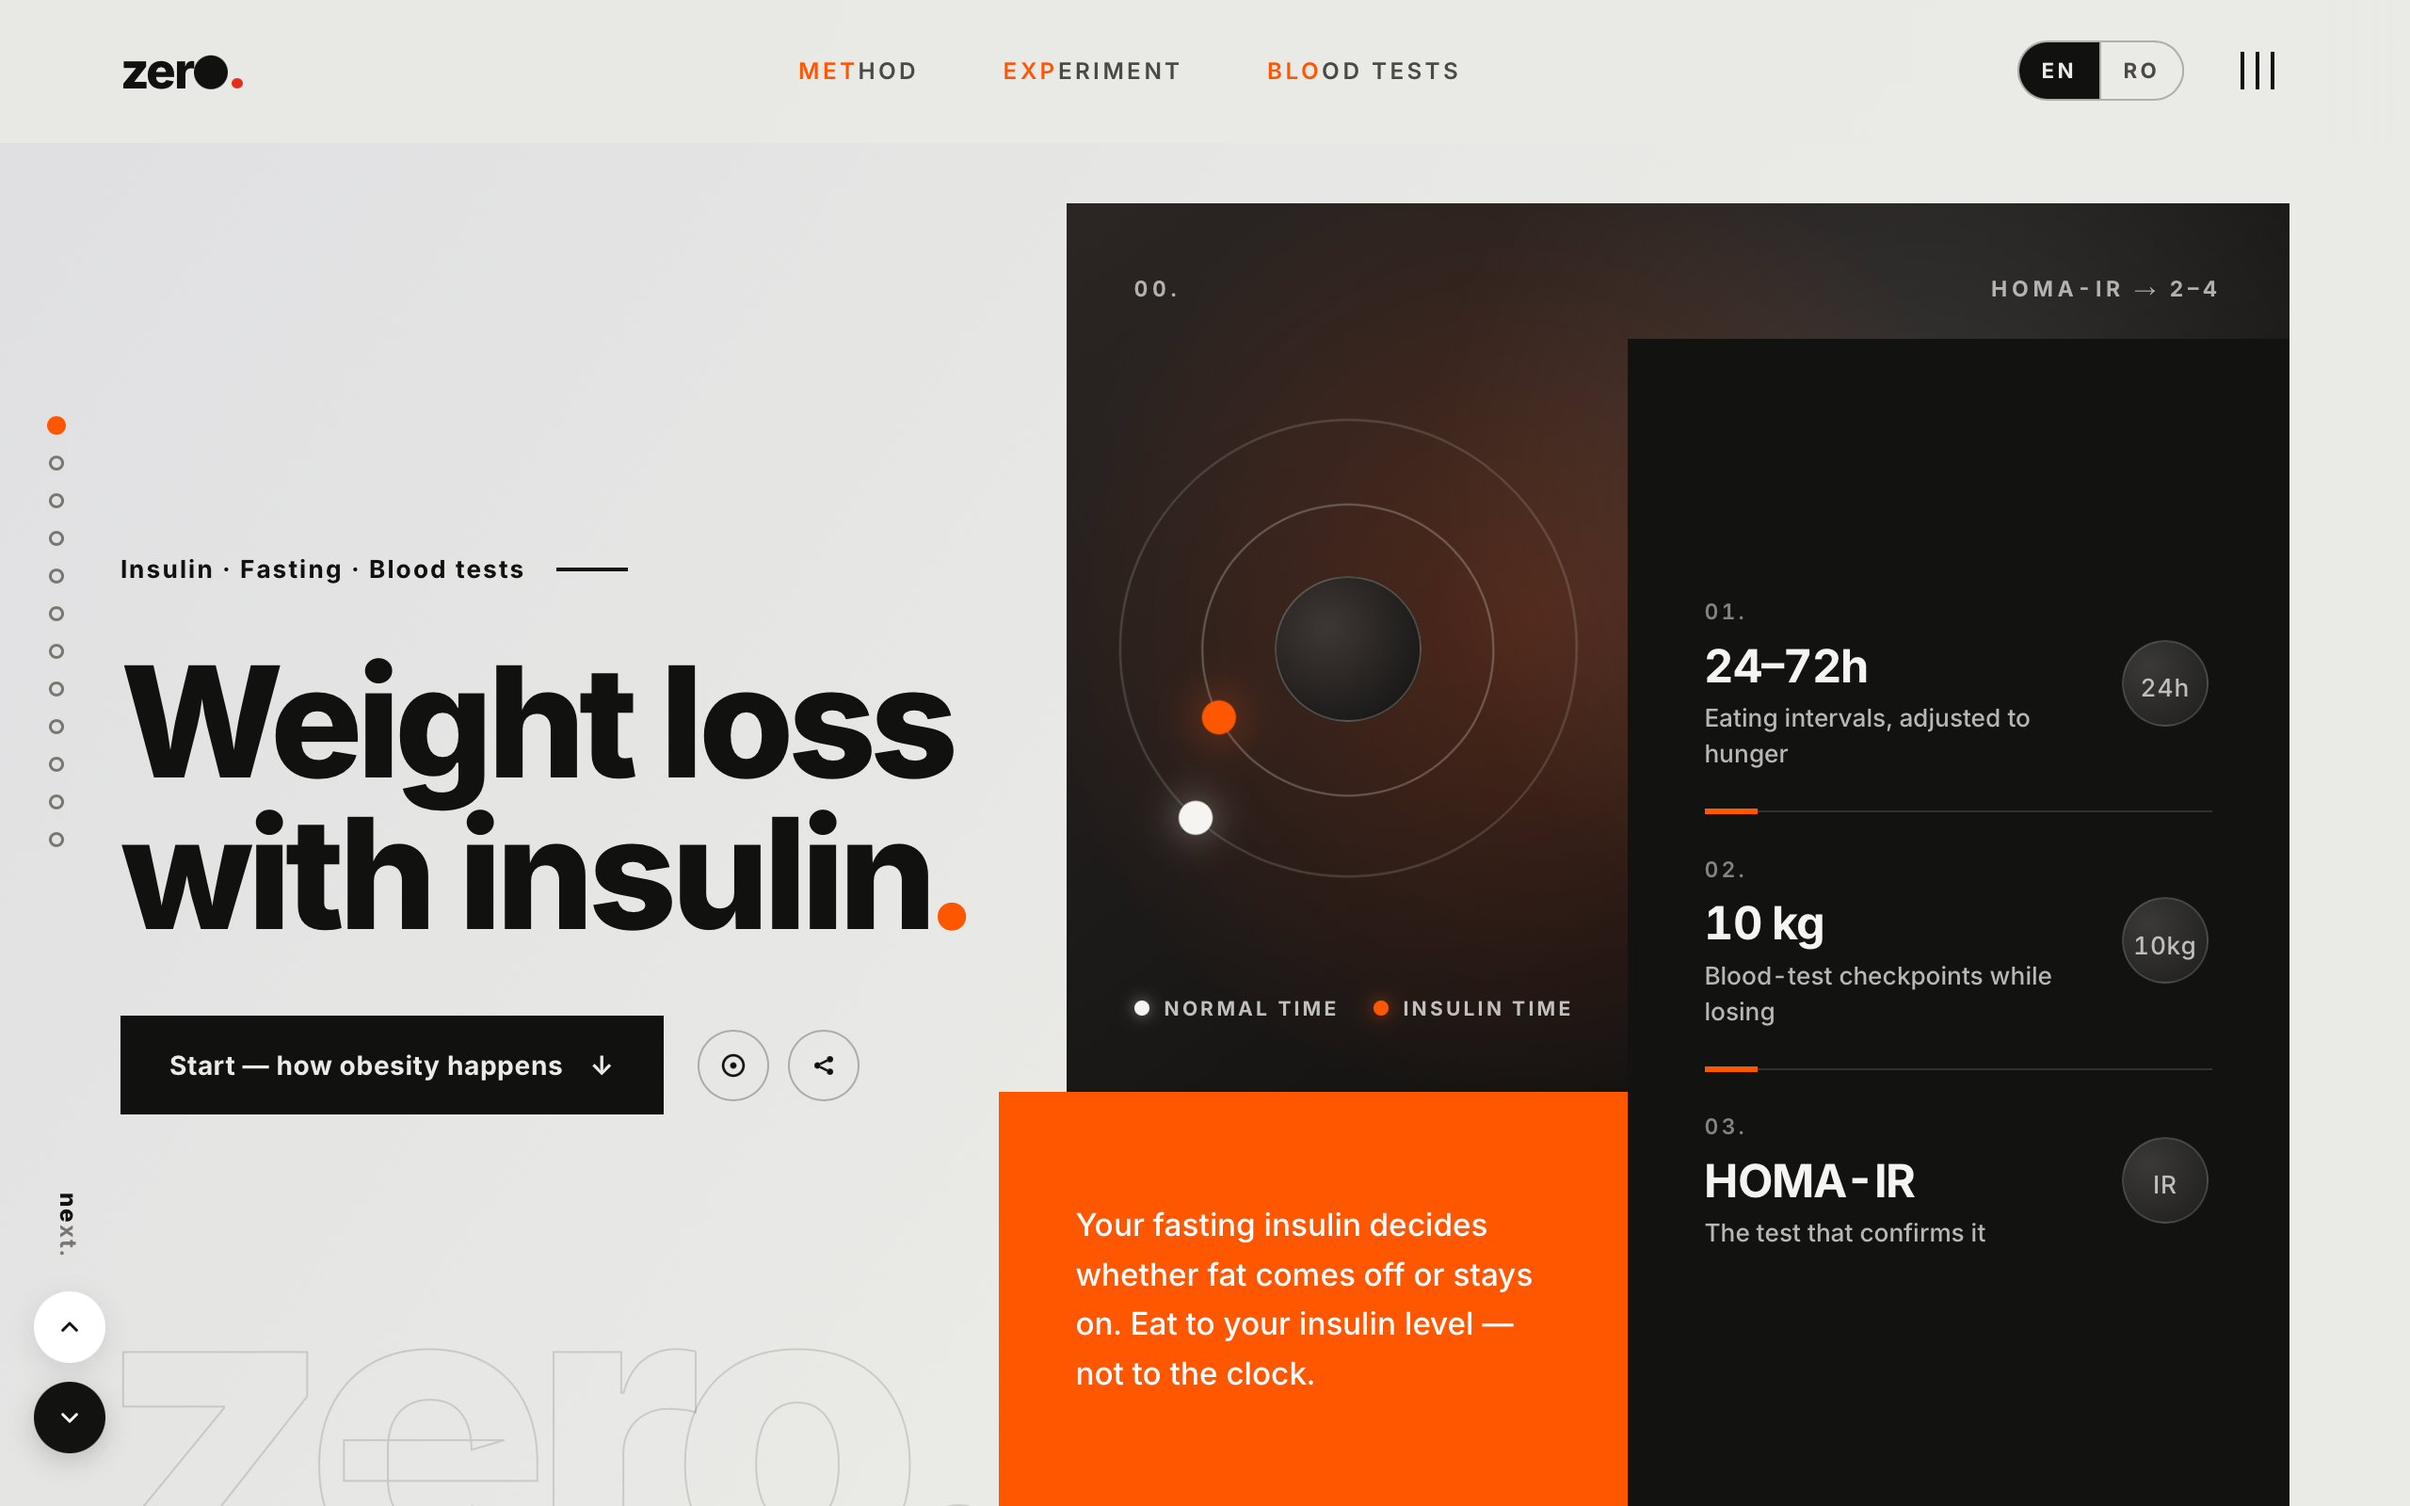
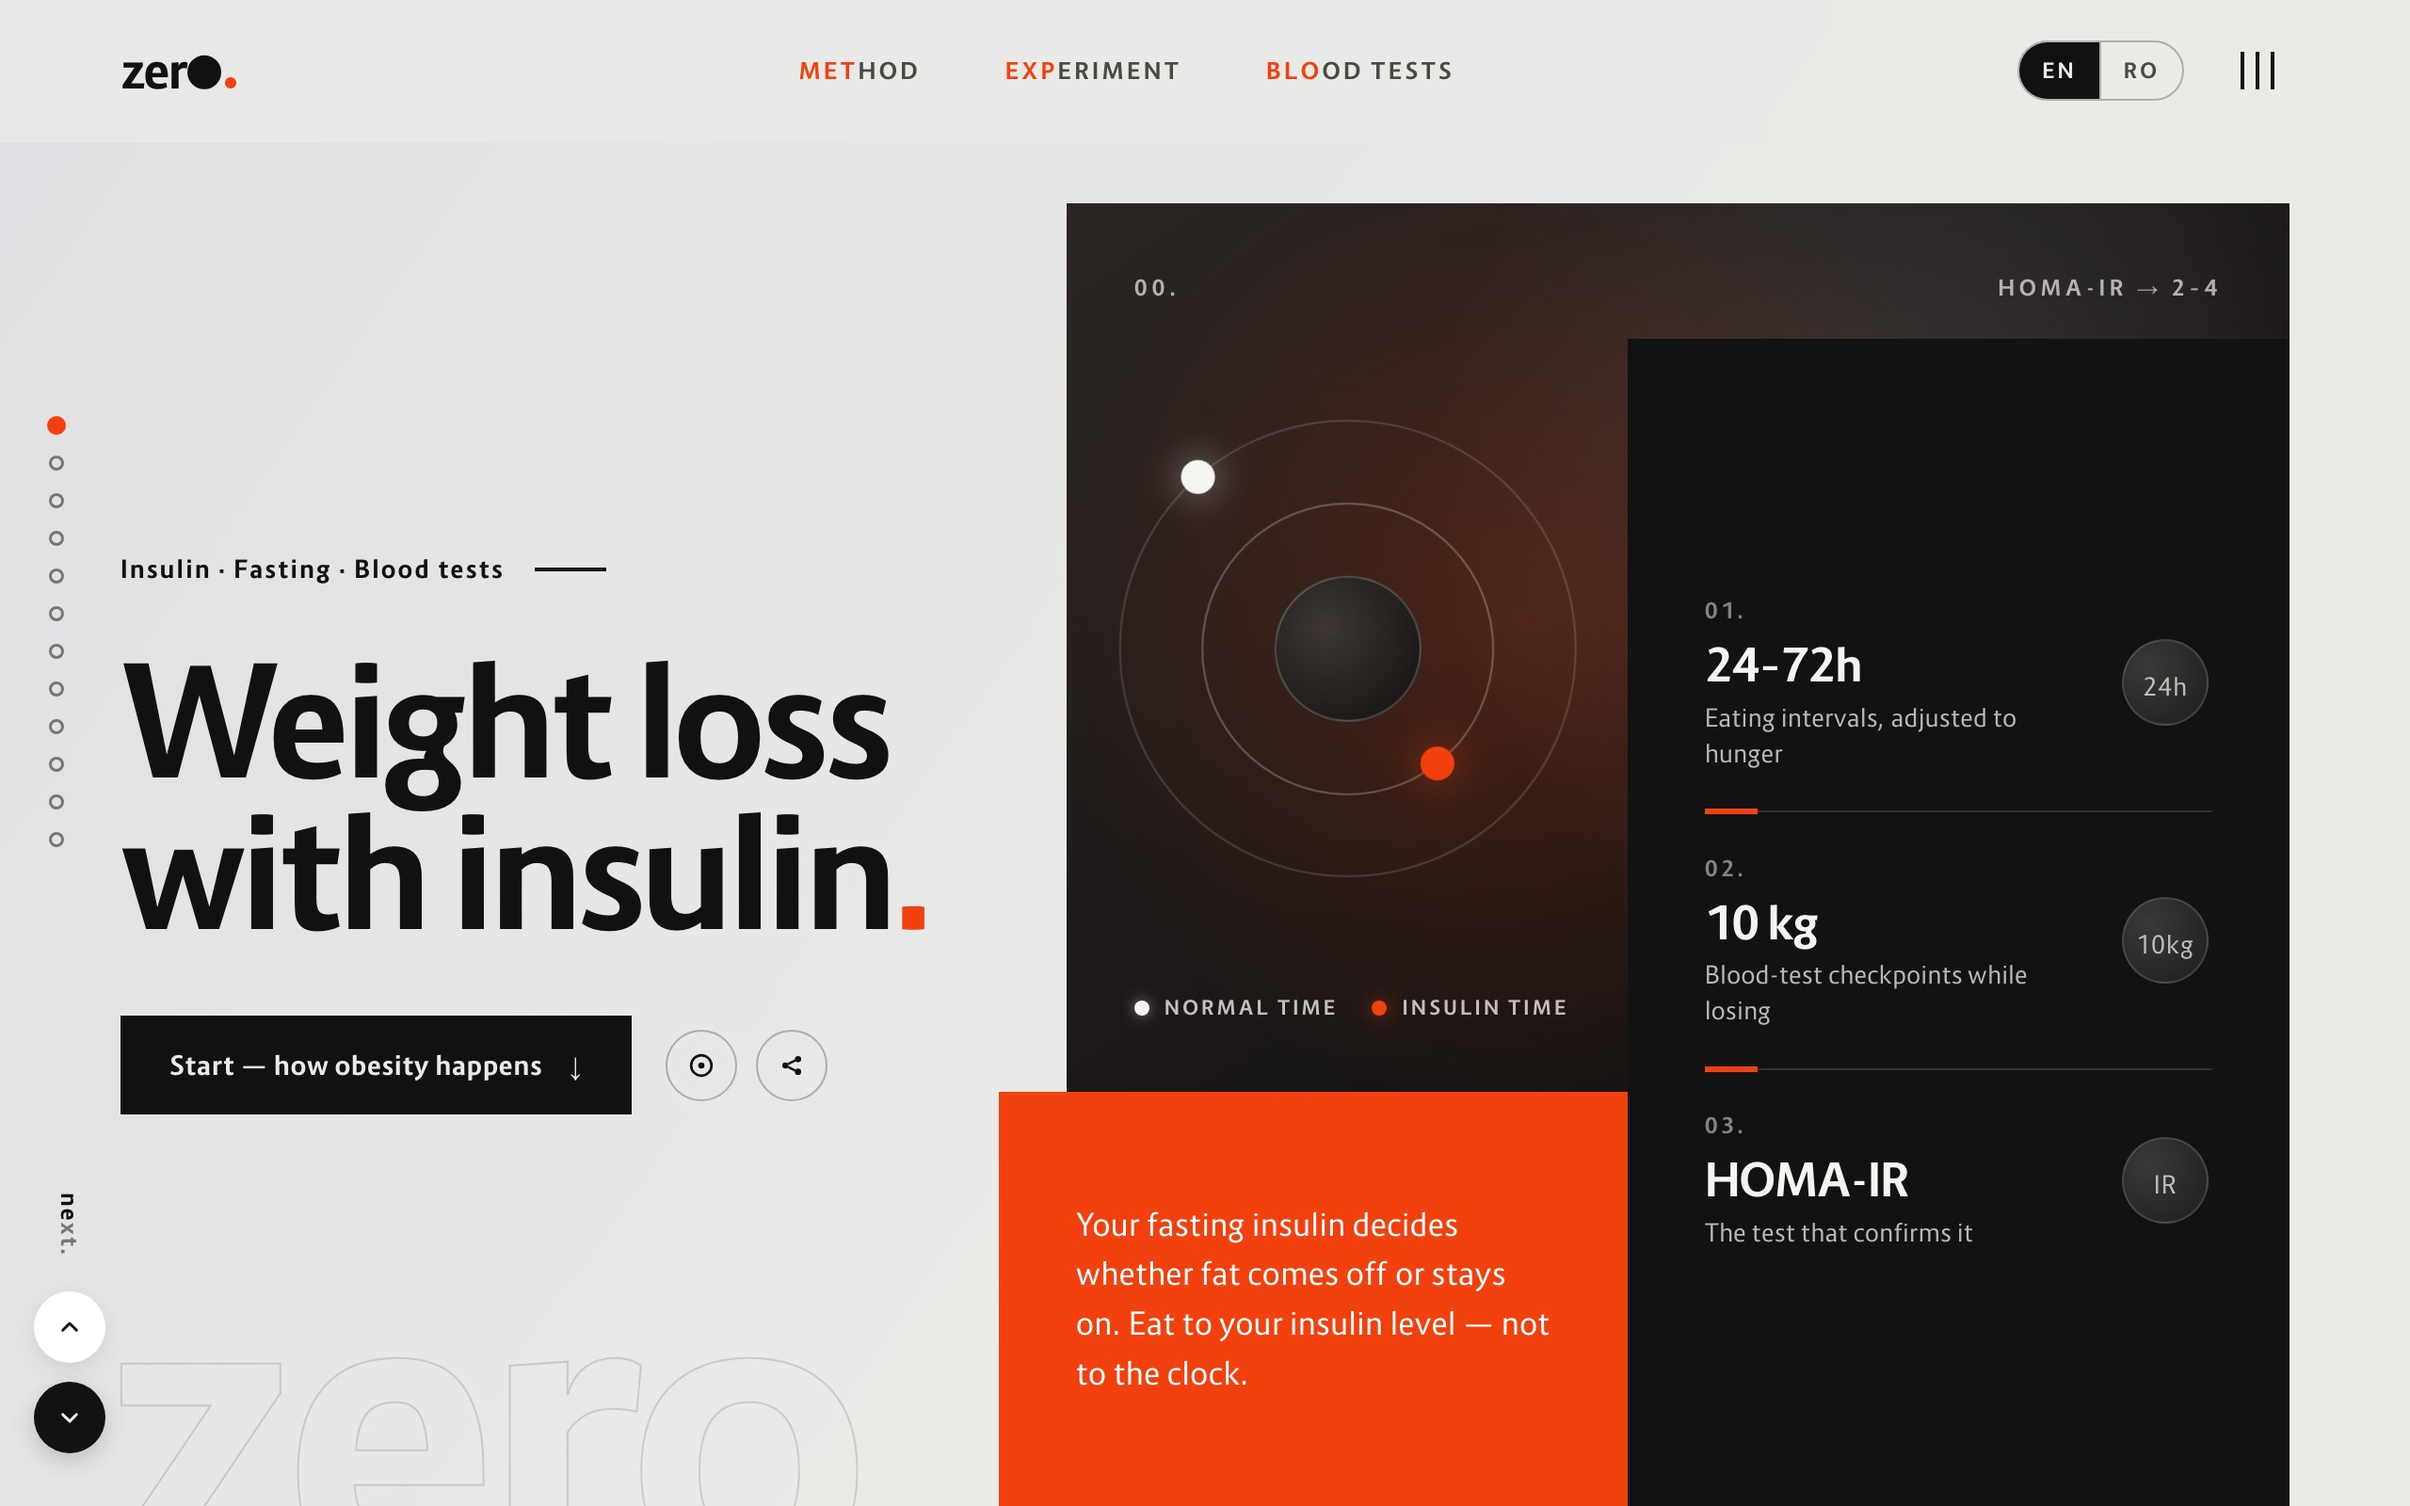
consolidate --accent color

diff --git a/static/style.css b/static/style.css
@@ -48,9 +48,8 @@
   --invert-ink:var(--ink);
   --invert-sub:var(--body);
 
-  /* Accent & brand dot — fixed in both themes */
-  --accent:#FF5500;
-  --logo-dot:#E62B1E;
+  /* Accent — fixed in both themes */
+  --accent:#F2400F;
   --accent-ink:#FFF8F4;
   --on-accent:#FFFFFF;
 
@@ -186,7 +185,7 @@ img,svg{display:block;max-width:100%}
   width:.22em;
   height:.22em;
   border-radius:50%;
-  background:var(--logo-dot);
+  background:var(--accent);
   margin-left:.08em;
 }
 .brand--foot{
@@ -573,7 +572,7 @@ img,svg{display:block;max-width:100%}
   position:relative;
   overflow:hidden;
   background:
-    radial-gradient(circle at 38% 42%, rgba(255,85,0,.22), transparent 52%),
+    radial-gradient(circle at 38% 42%, rgba(242,64,15,.22), transparent 52%),
     radial-gradient(circle at 70% 28%, rgba(255,255,255,.12), transparent 45%),
     linear-gradient(145deg, #2B2624 0%, #161413 60%, #0E0D0D 100%);
   color:#F5F4F1;
@@ -638,7 +637,7 @@ img,svg{display:block;max-width:100%}
   width:18px;height:18px;
   border-radius:50%;
   background:var(--accent);
-  box-shadow:0 0 24px rgba(255,85,0,.65);
+  box-shadow:0 0 24px rgba(242,64,15,.65);
 }
 .har-dot--white{
   background:#F5F4F1;
@@ -687,7 +686,7 @@ img,svg{display:block;max-width:100%}
 }
 .har-leg-dot--orange{
   background:var(--accent);
-  box-shadow:0 0 10px rgba(255,85,0,.65);
+  box-shadow:0 0 10px rgba(242,64,15,.65);
 }
 
 /* Solid Orange Architectural Block (bottom-left of collage, design-inspiration-01) */
@@ -1653,7 +1652,7 @@ img,svg{display:block;max-width:100%}
 .st-card-dot{
   width:18px;height:18px;
   border-radius:50%;
-  background:var(--logo-dot);
+  background:var(--accent);
 }
 .st-card-lbl{
   font-size:.82rem;
